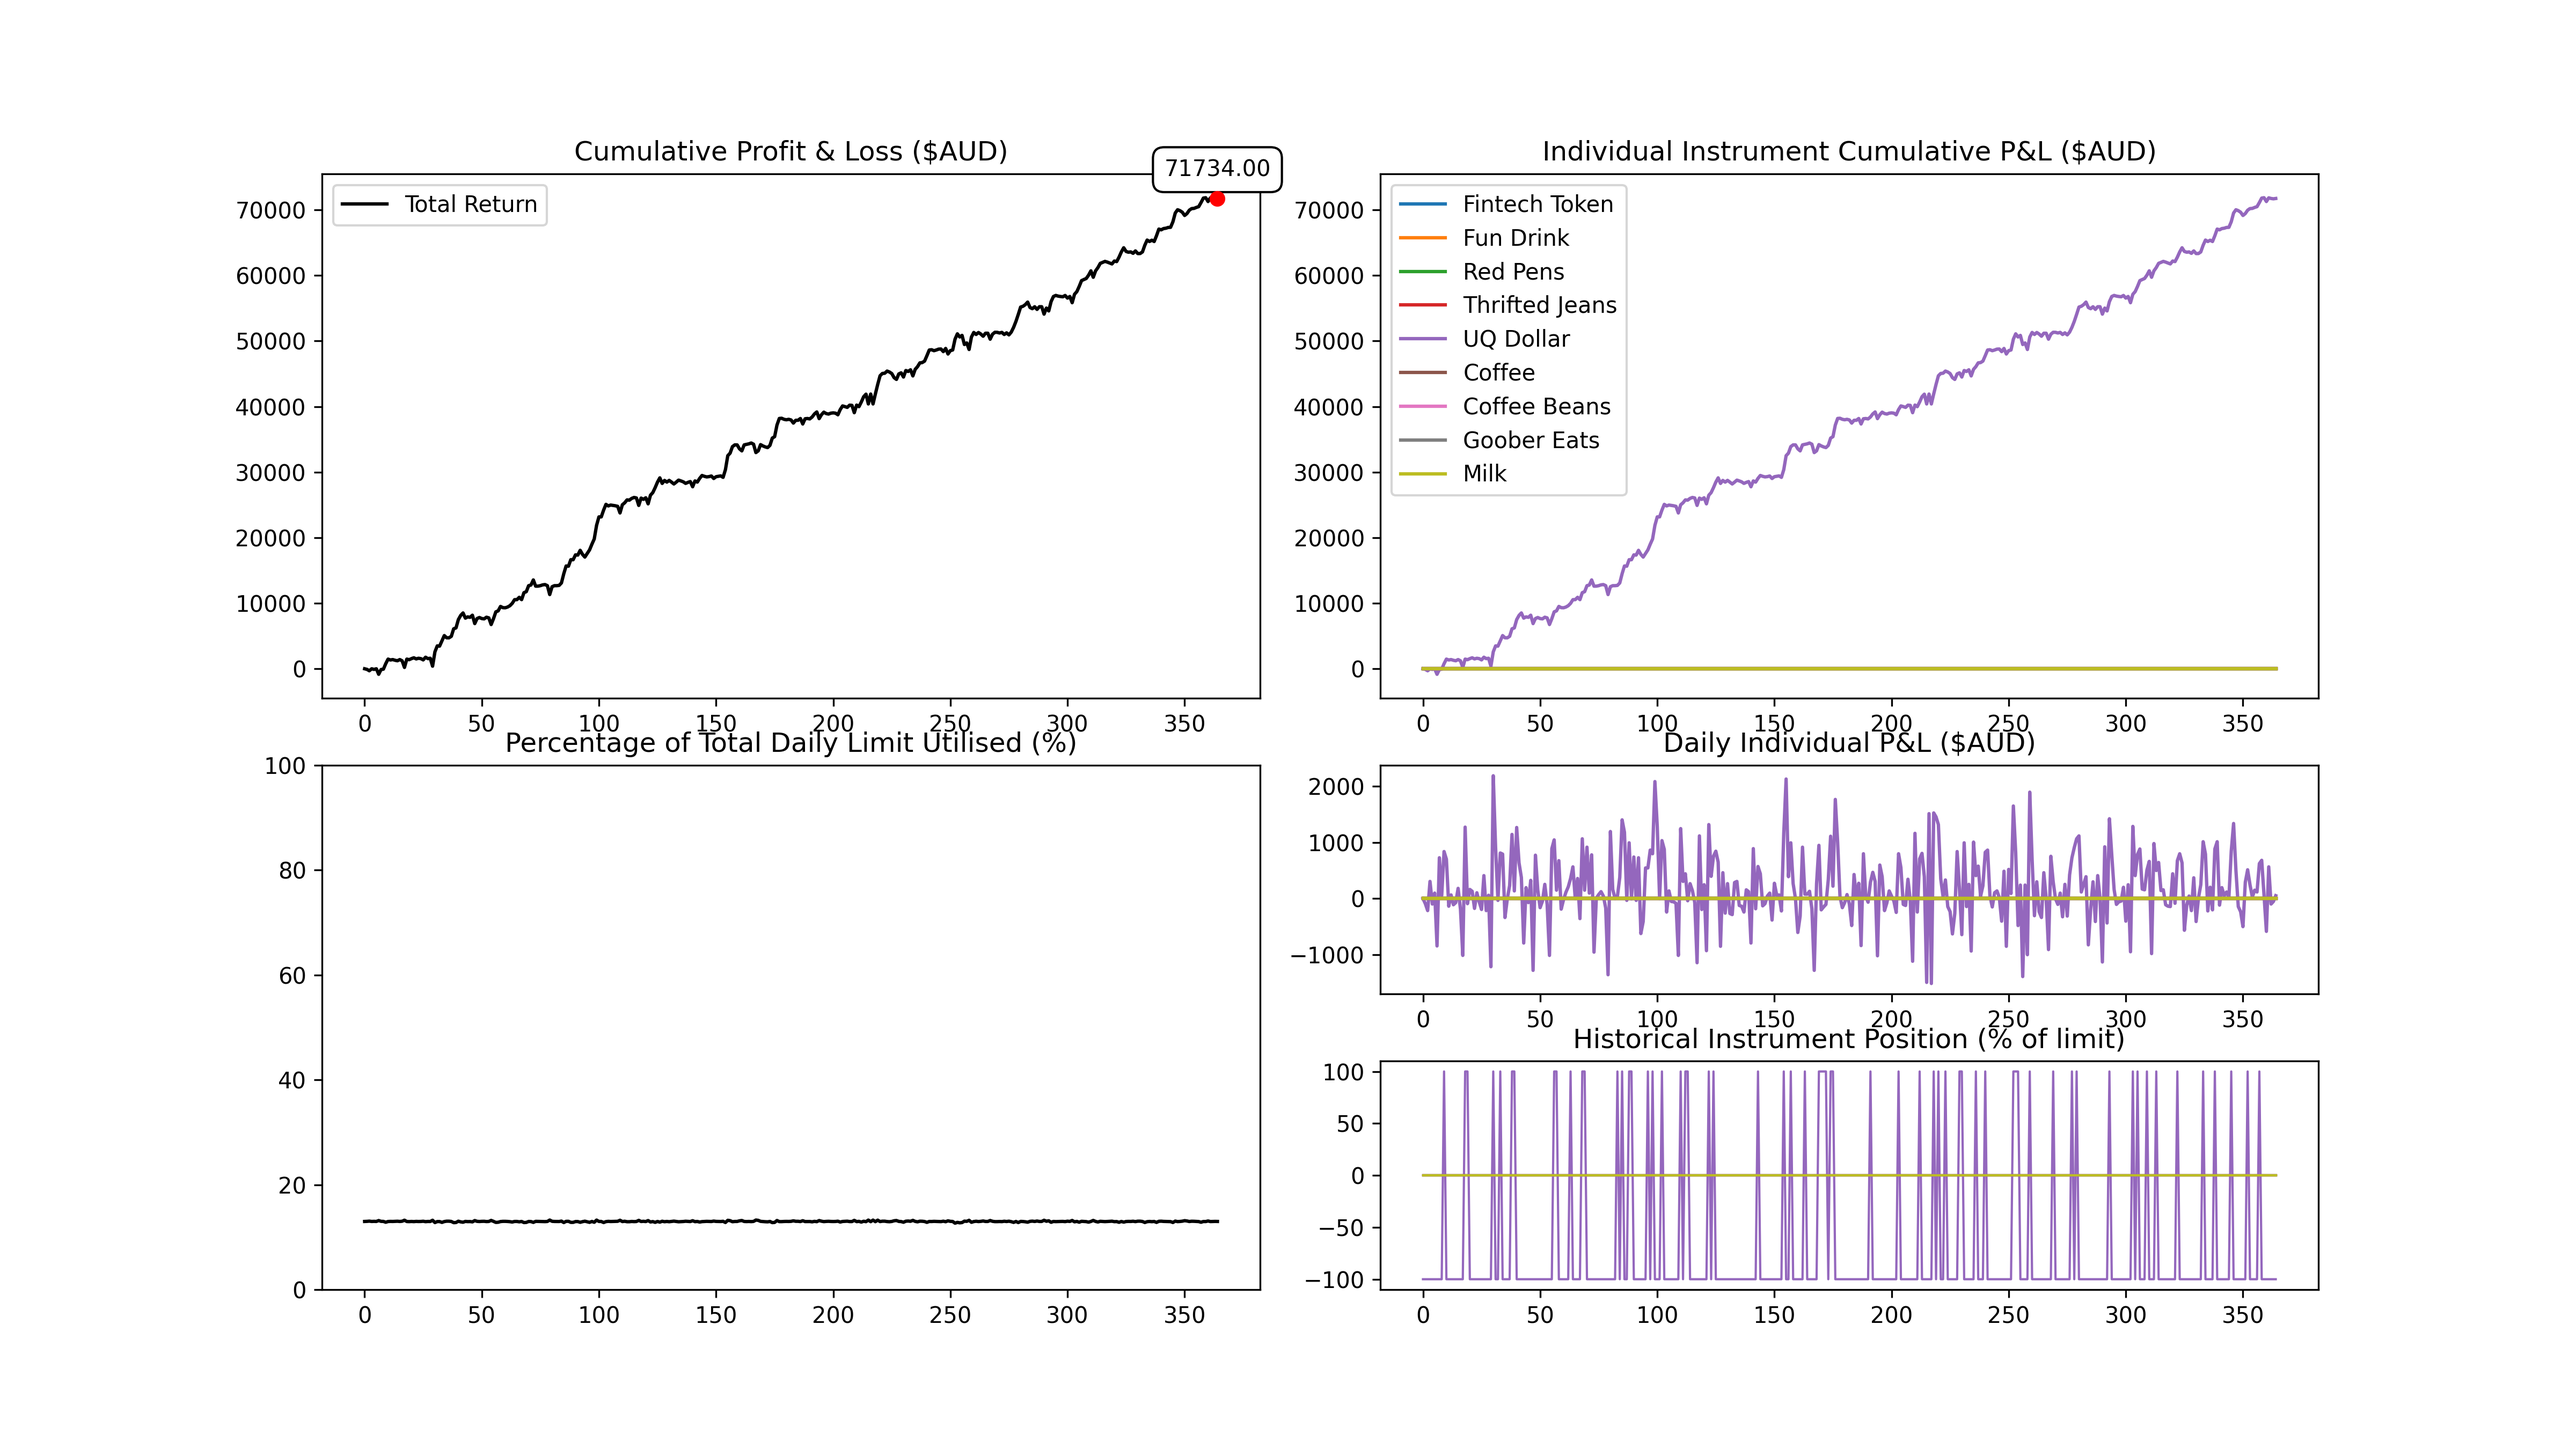
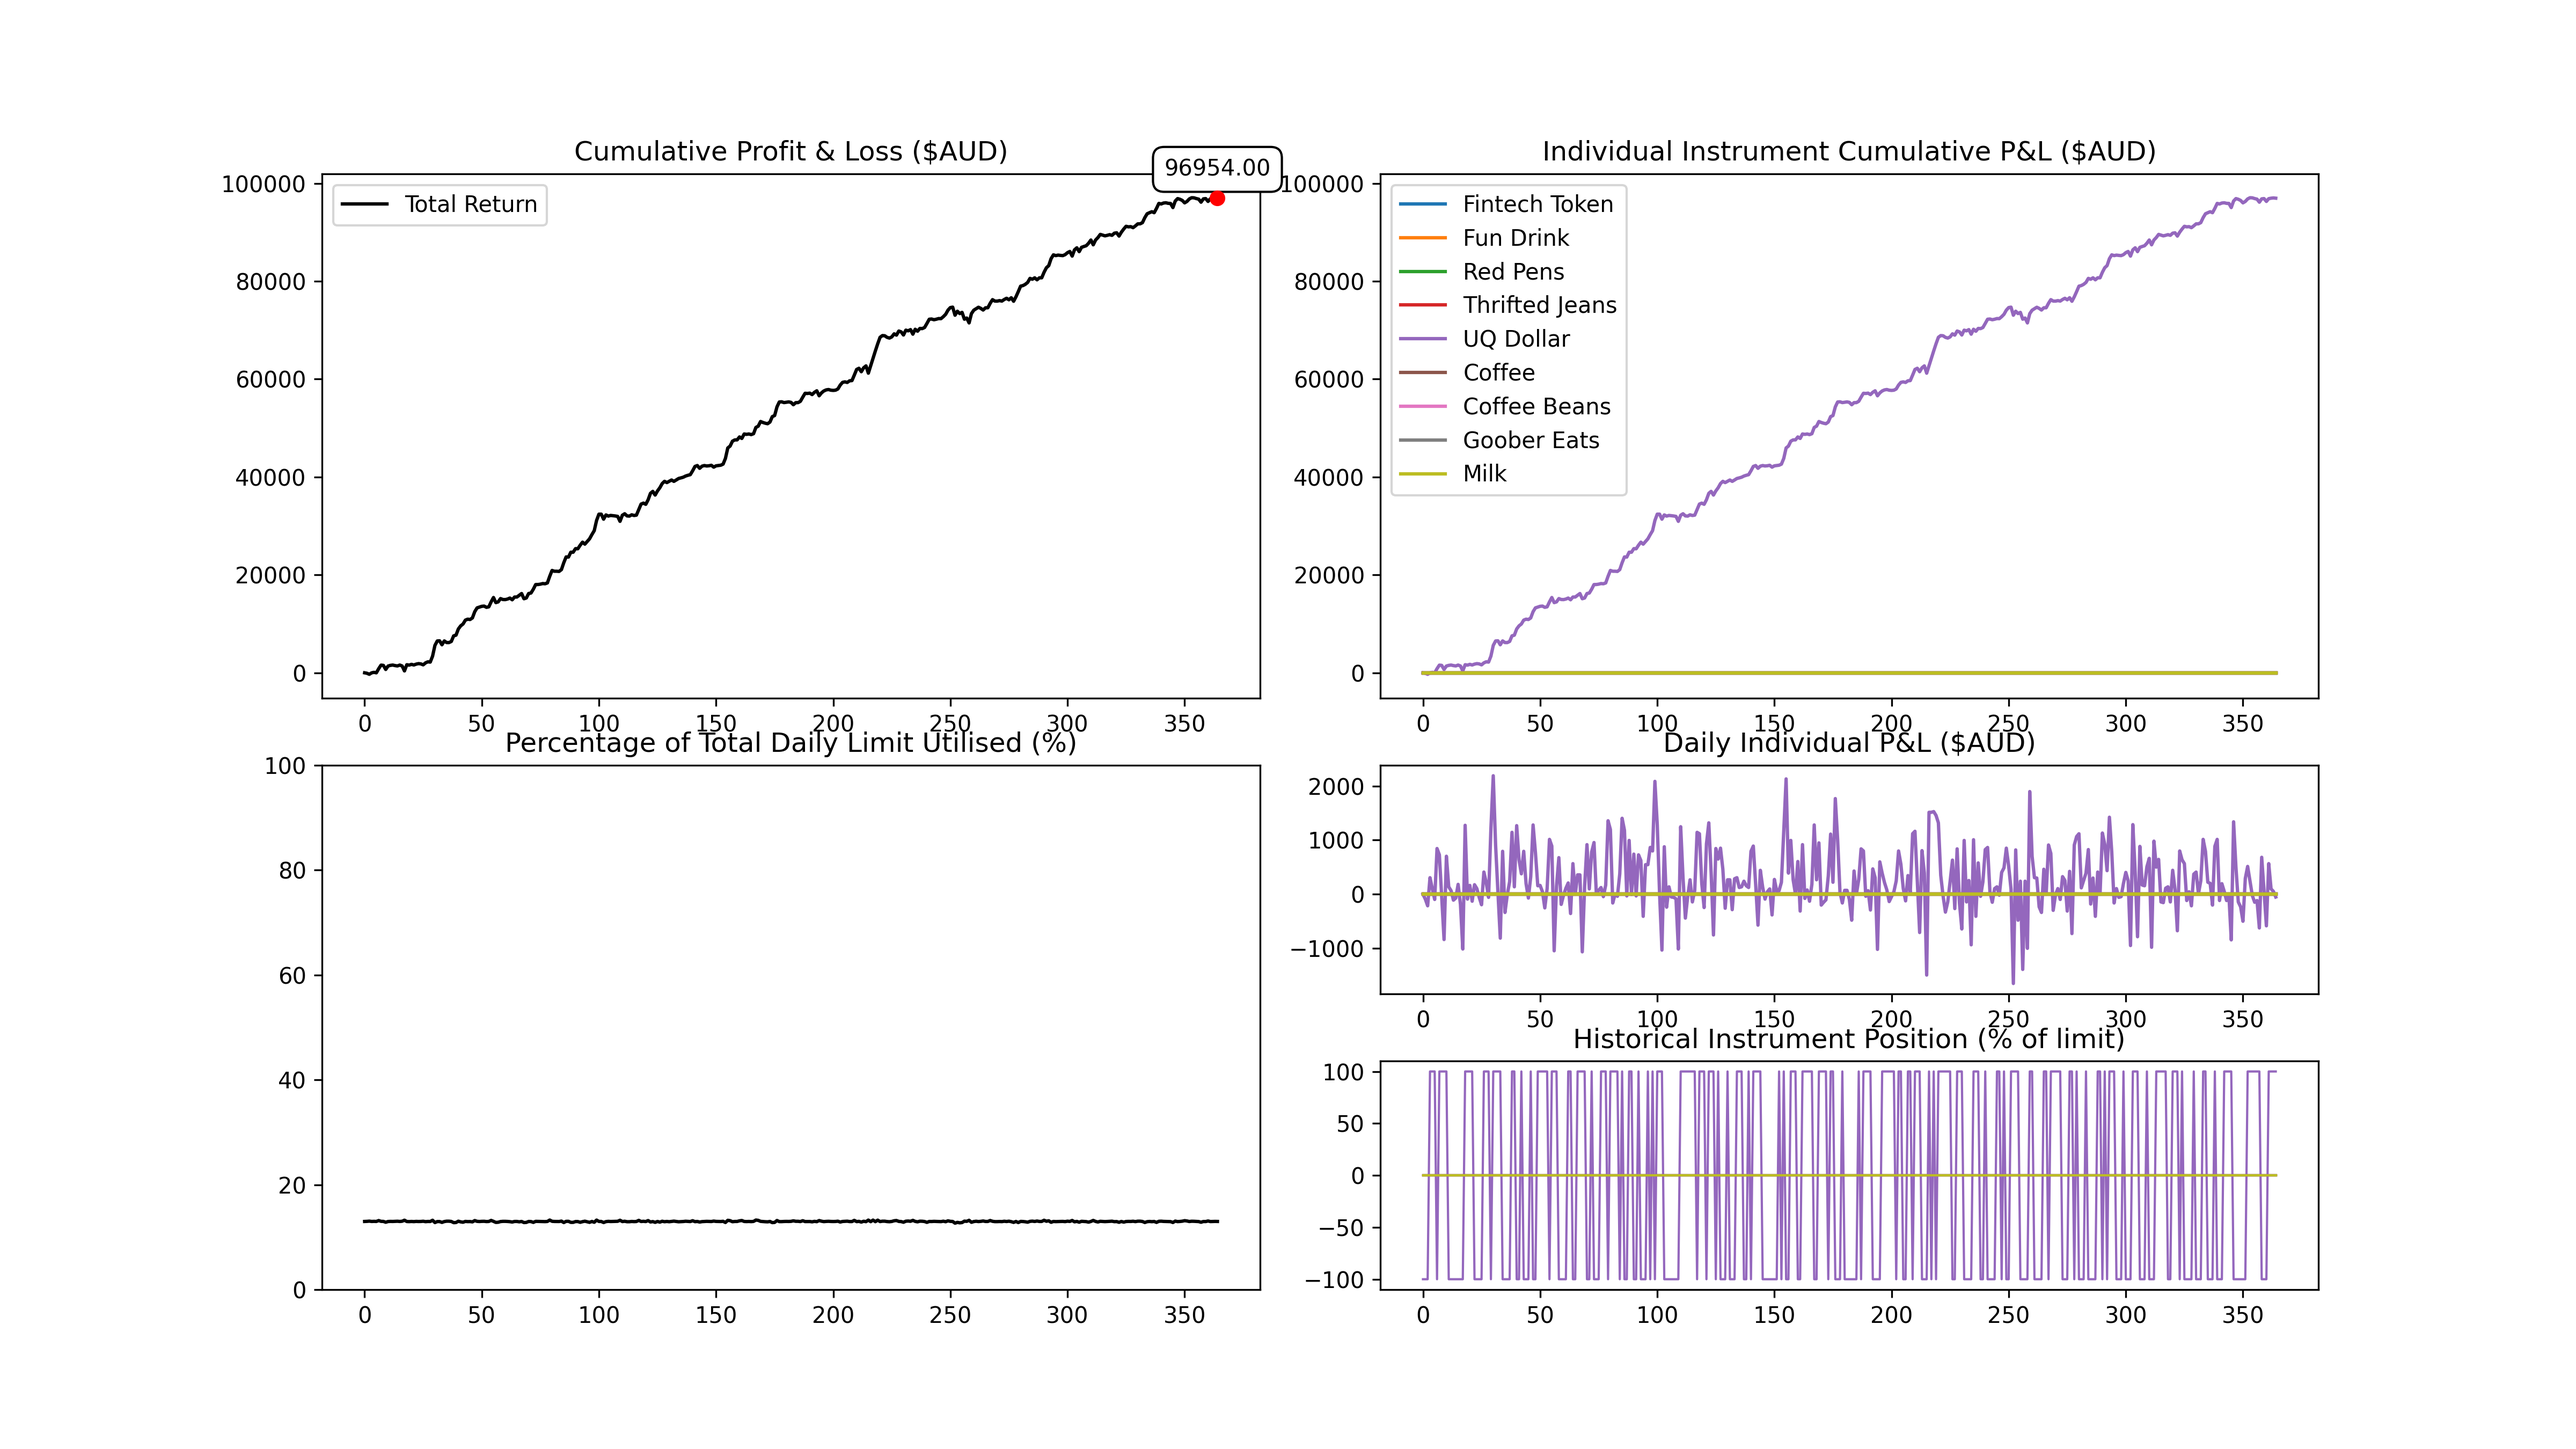
More optimal copy of UQ Dollar

diff --git a/algorithm.py b/algorithm.py
@@ -48,15 +48,26 @@ class Algorithm():
     
     def get_uq_dollar_position(self, currentPosition, limit):
 
-        avg = sum(self.data["UQ Dollar"][-5:]) / 5
+        avg = sum(self.data["UQ Dollar"][-4:]) / 4
         price = self.get_current_price("UQ Dollar")
         diff = avg - price
+        boundary = max(self.data["UQ Dollar"]) - avg
+        print(f"boundary: {boundary}")
 
-        if diff > 0.5:
+        if diff > 0.15:
+            delta = limit * 2 # int(np.exp(diff / boundary * 2) * limit)
+        elif diff < -0.15:
+            delta = -2 * limit # int(np.exp(abs(diff) / boundary * 2) * limit)
+        else:
+            delta = 0
+
+        if currentPosition + delta > limit:
             desiredPosition = limit
-        elif diff < 0.5:
+        elif currentPosition + delta < -1 * limit:
             desiredPosition = -1 * limit
         else:
-            desiredPosition = currentPosition
+            desiredPosition = currentPosition + delta
+
+        print(f"OLD: {currentPosition}, NEW: {desiredPosition}")
 
         return desiredPosition
